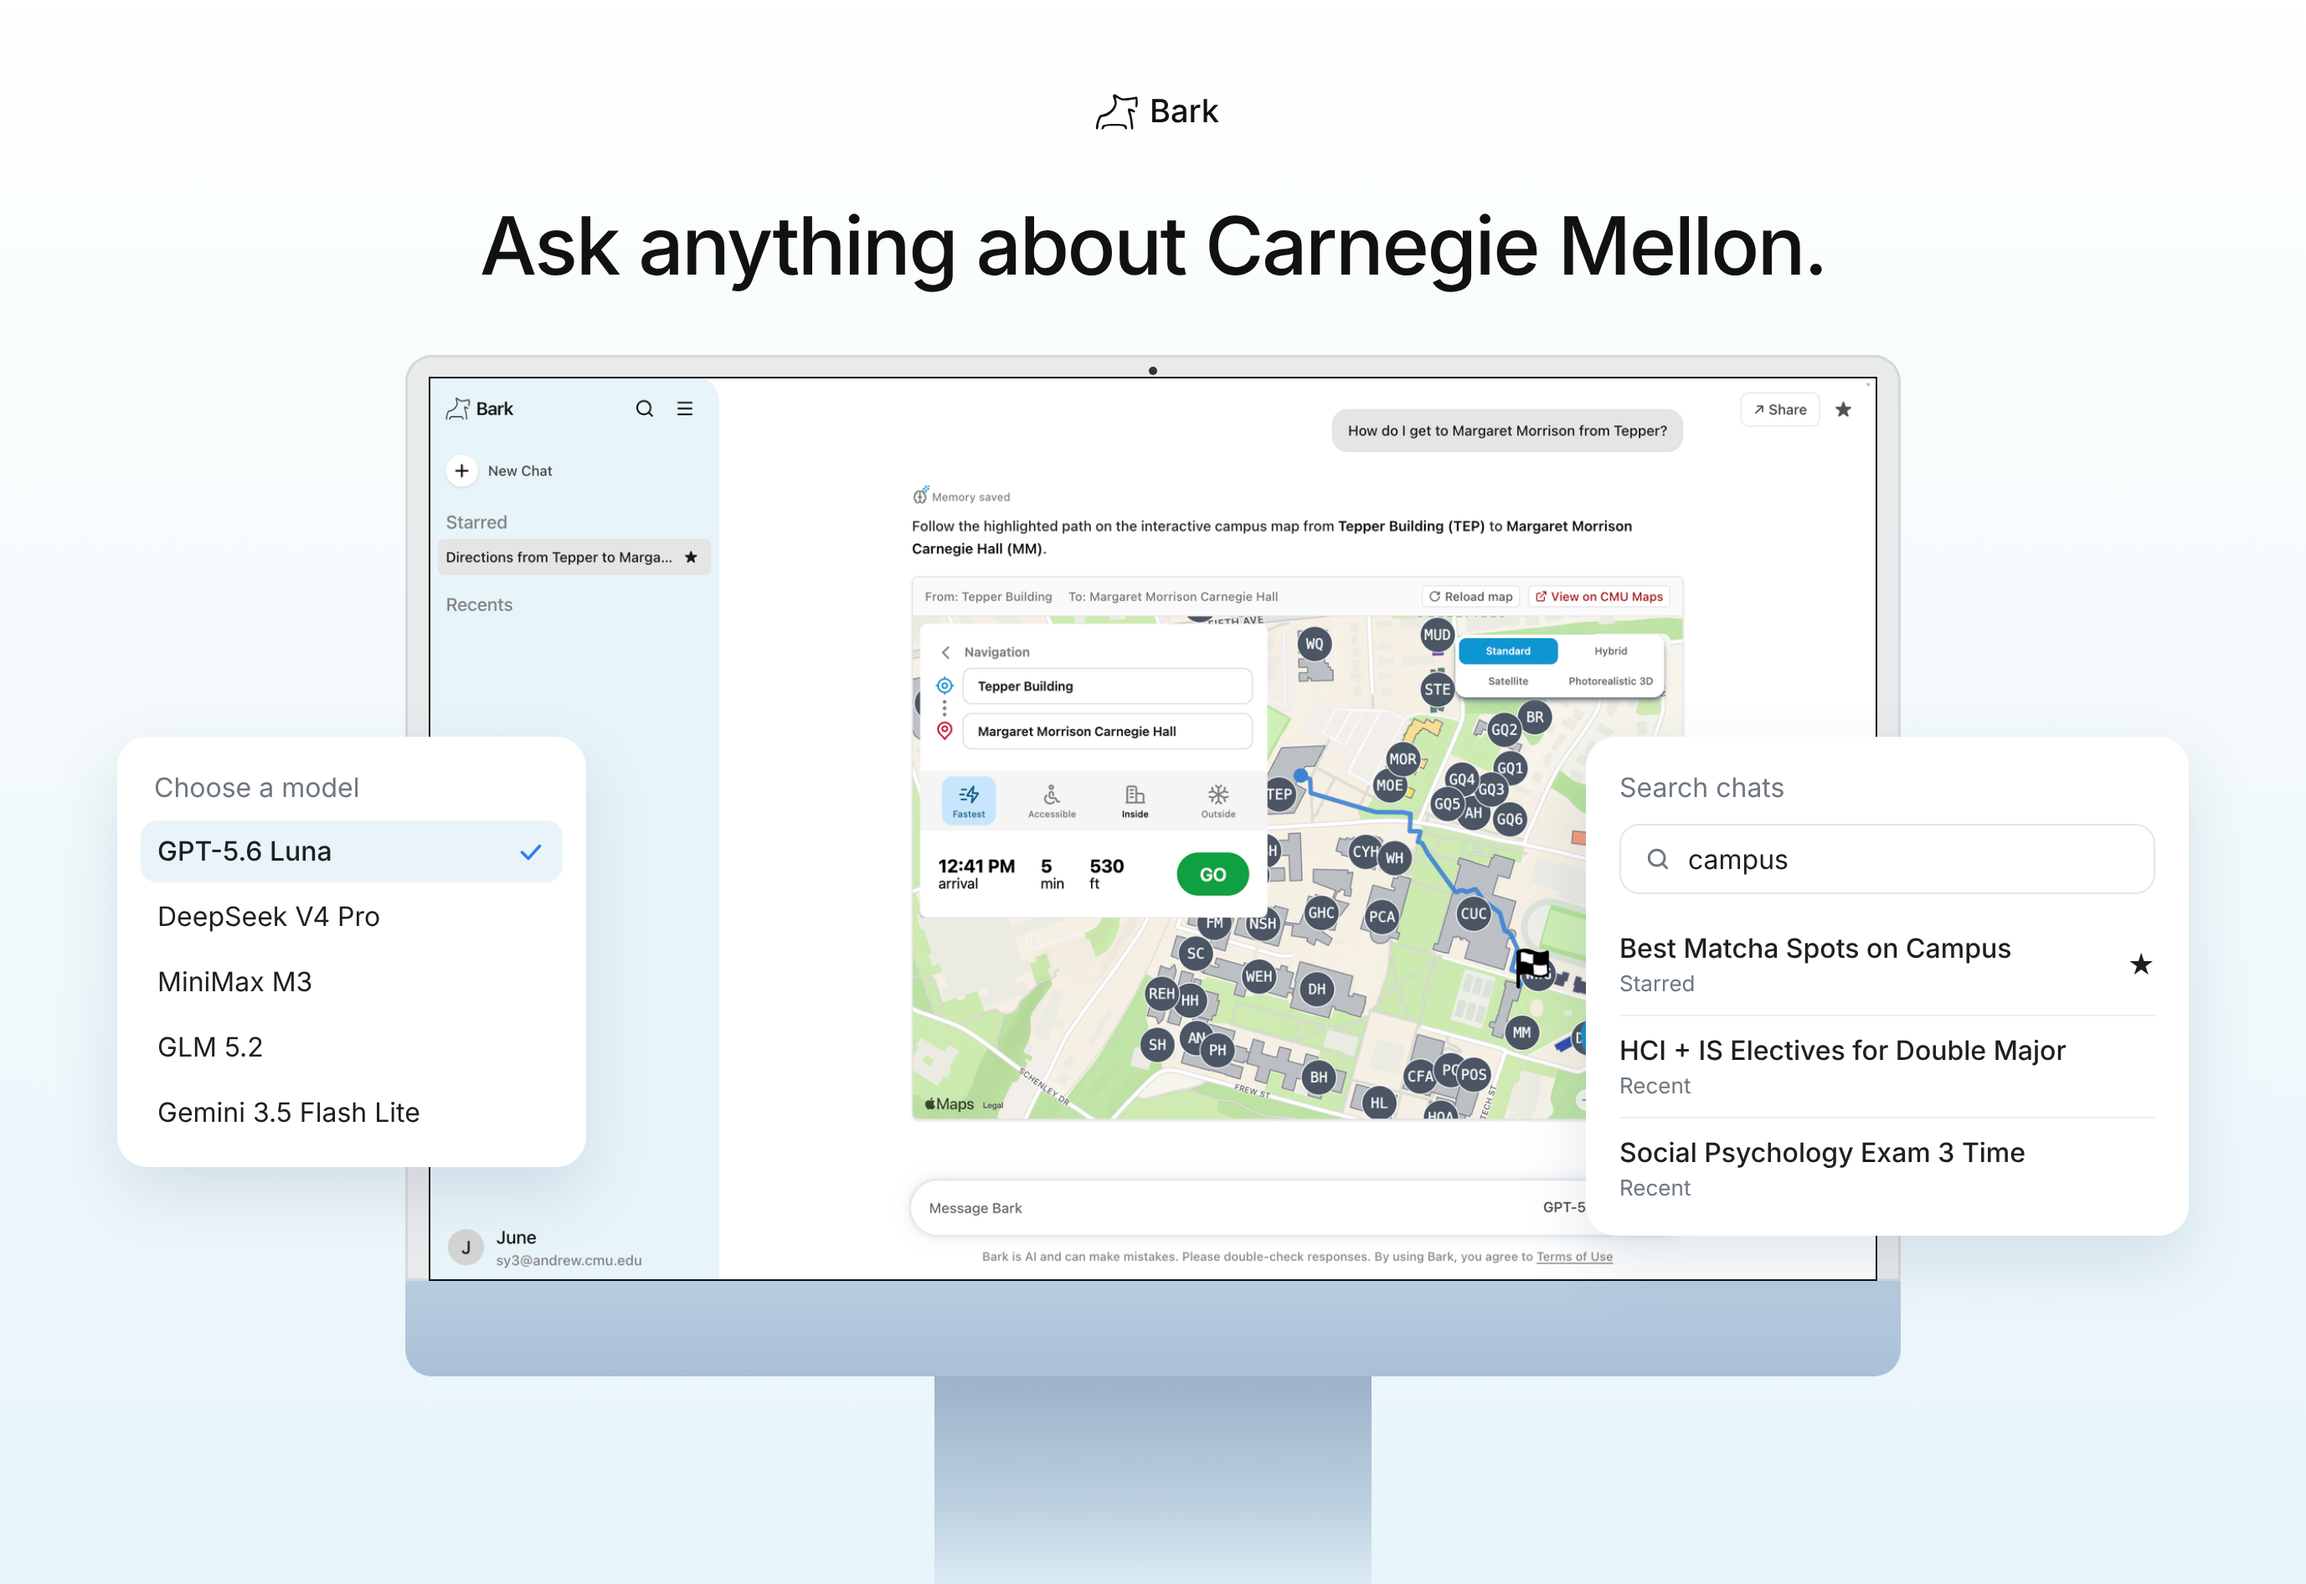
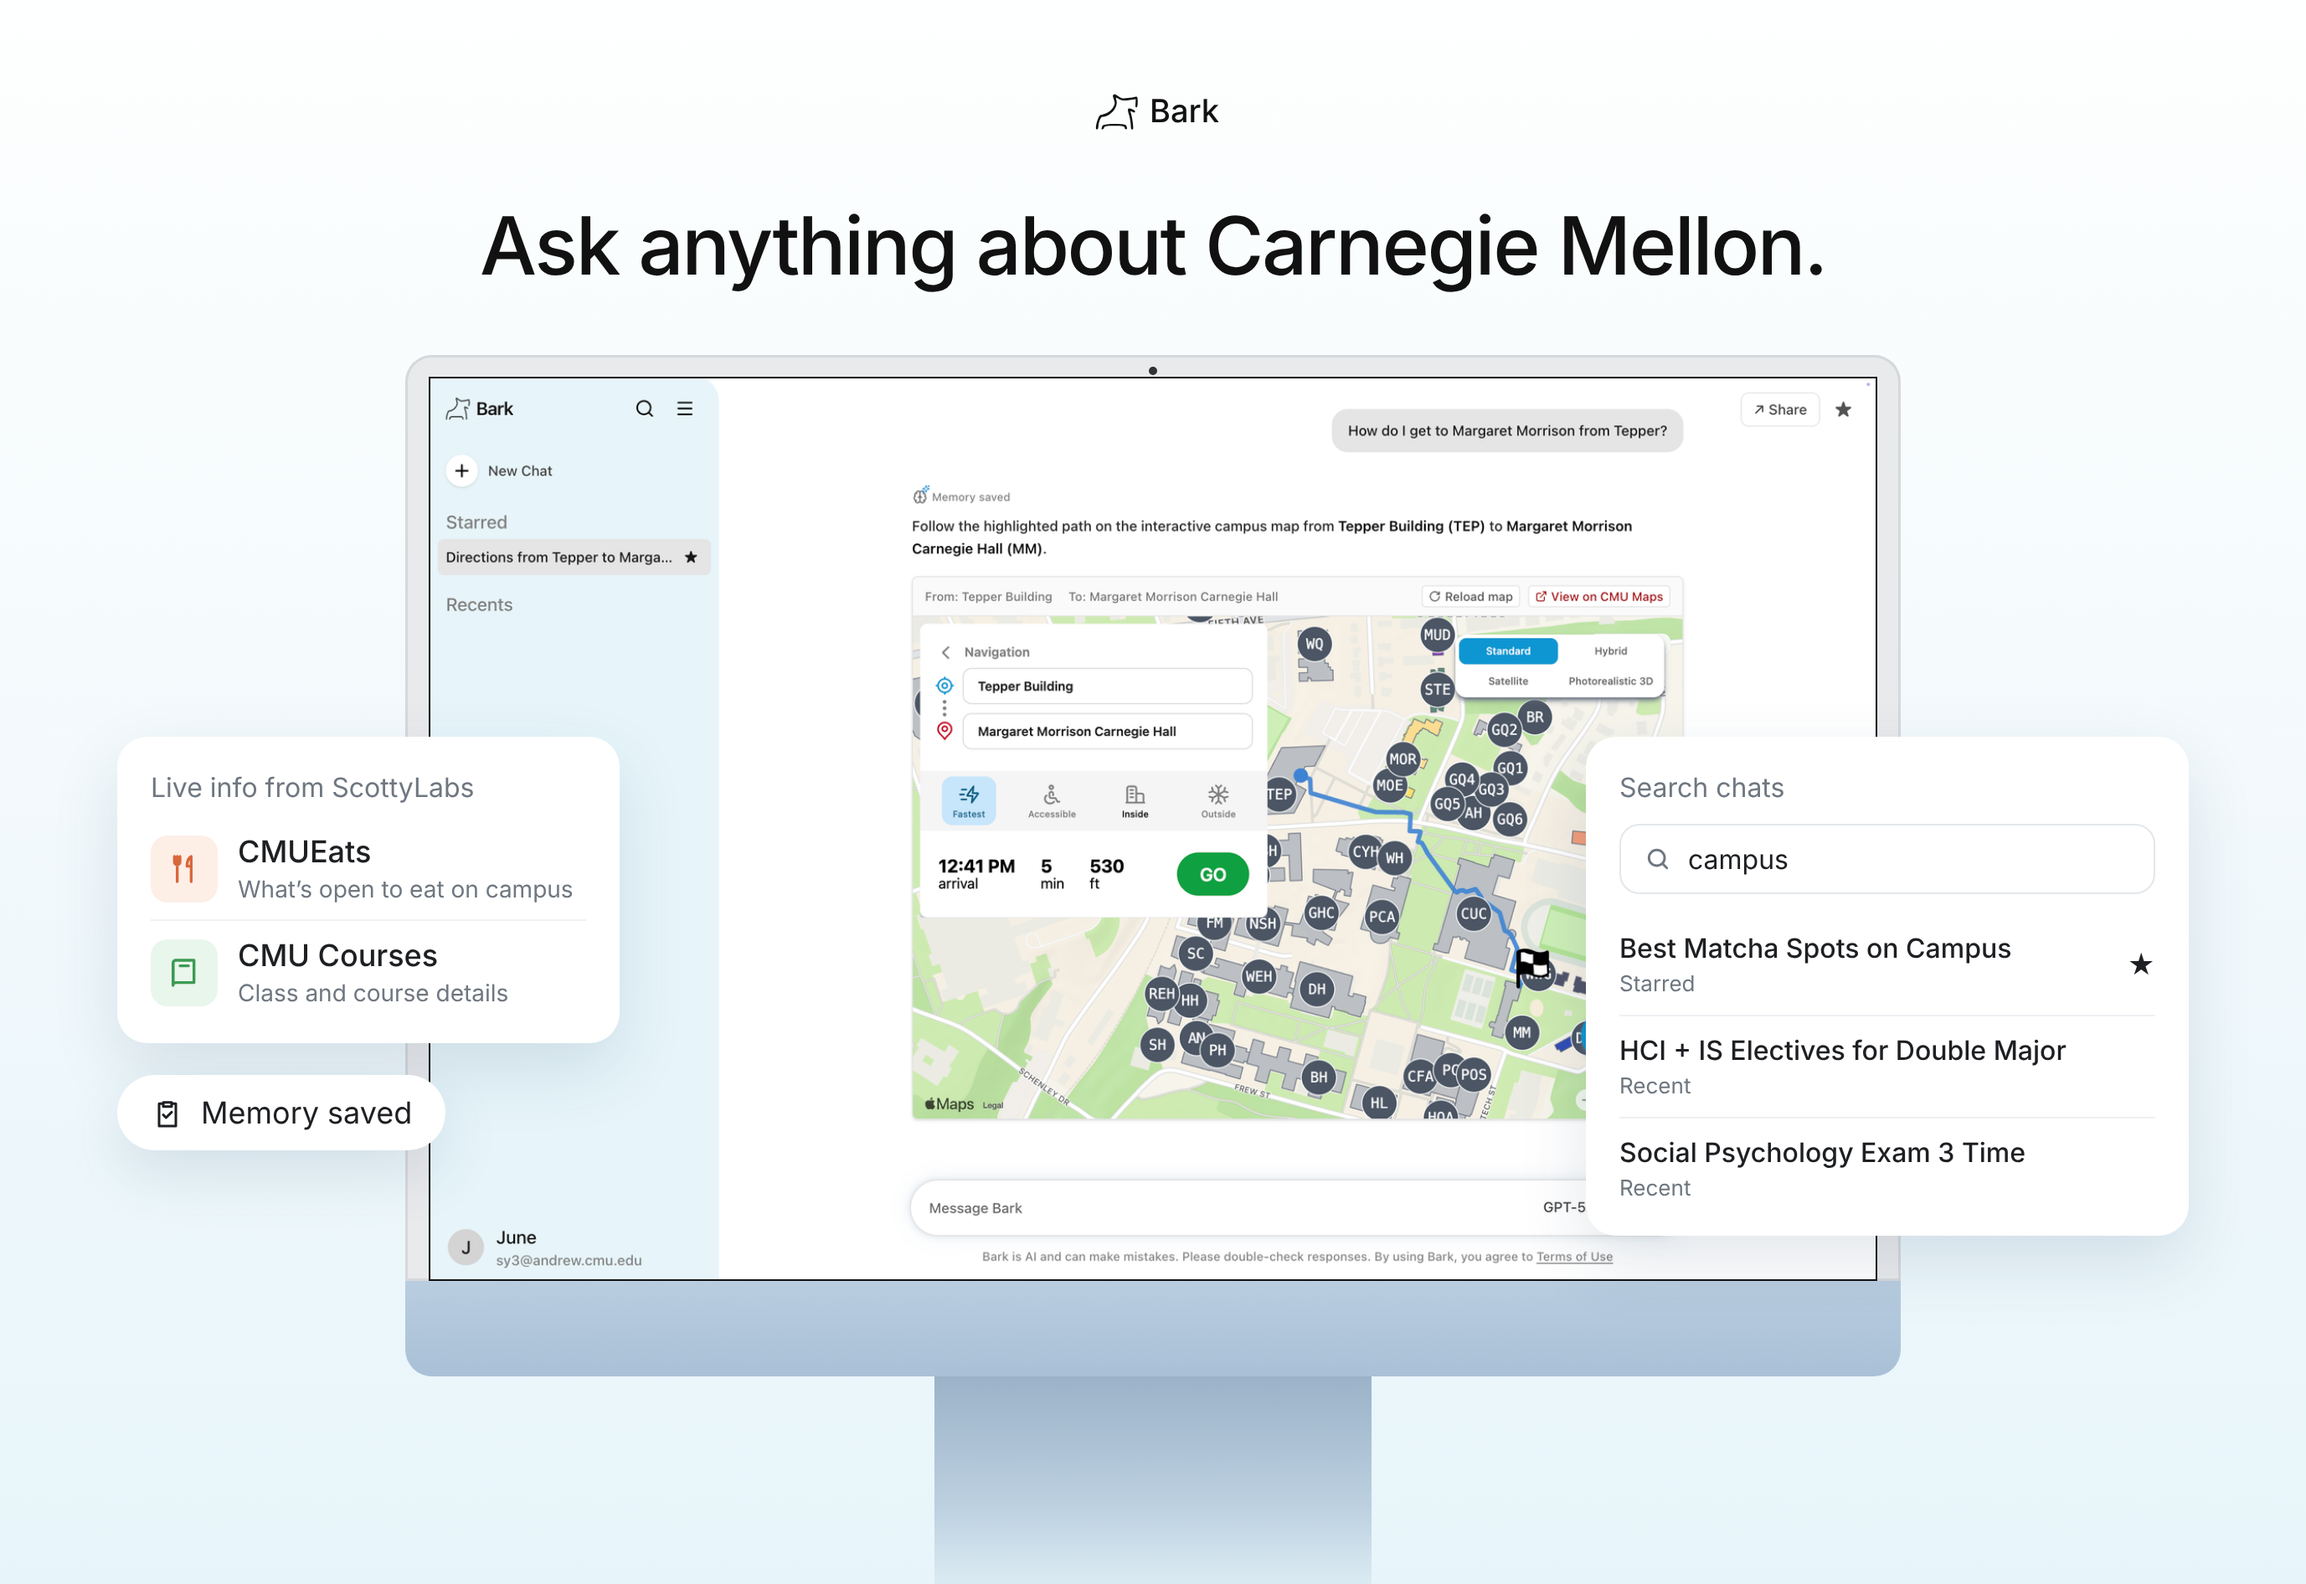
Home: Bark cover swaps the model picker for ScottyLabs tools and memory (#19)
The model picker isn't part of the case study; the cards now show what the
story is about: live CMUEats and CMU Courses info, memory saved, and chat search.

Claude-Session: https://claude.ai/code/session_01PJkMotC6Nz8qWguHKxjy1y

Changed region(s): [[0.0312, 0.4678, 0.281, 0.7484], [0.0625, 0.4678, 0.1561, 0.4989]]

diff --git a/index.html b/index.html
@@ -50,8 +50,8 @@
 
       <a class="project" href="cmugpt-site/index.html">
         <div class="project__media project__media--cmugpt">
-          <img src="cmugpt-site/images/cover.png?v=7" width="1377" height="946"
-            alt="Bark cover: 'Ask anything about Carnegie Mellon.' above an iMac showing a Bark answer with an interactive CMU Maps route, with a model picker card (GPT-5.6 Luna selected) and a chat search card showing a starred chat and recent chats">
+          <img src="cmugpt-site/images/cover.png?v=8" width="1377" height="946"
+            alt="Bark cover: 'Ask anything about Carnegie Mellon.' above an iMac showing a Bark answer with an interactive CMU Maps route, with cards for live info from ScottyLabs (CMUEats, CMU Courses), memory saved, and chat search showing a starred chat and recent chats">
           <video class="project__hover" data-src="cmugpt-site/images/hover.mp4?v=2" muted playsinline loop preload="none" aria-hidden="true"></video>
         </div>
         <h2 class="project__title">Bark</h2>
